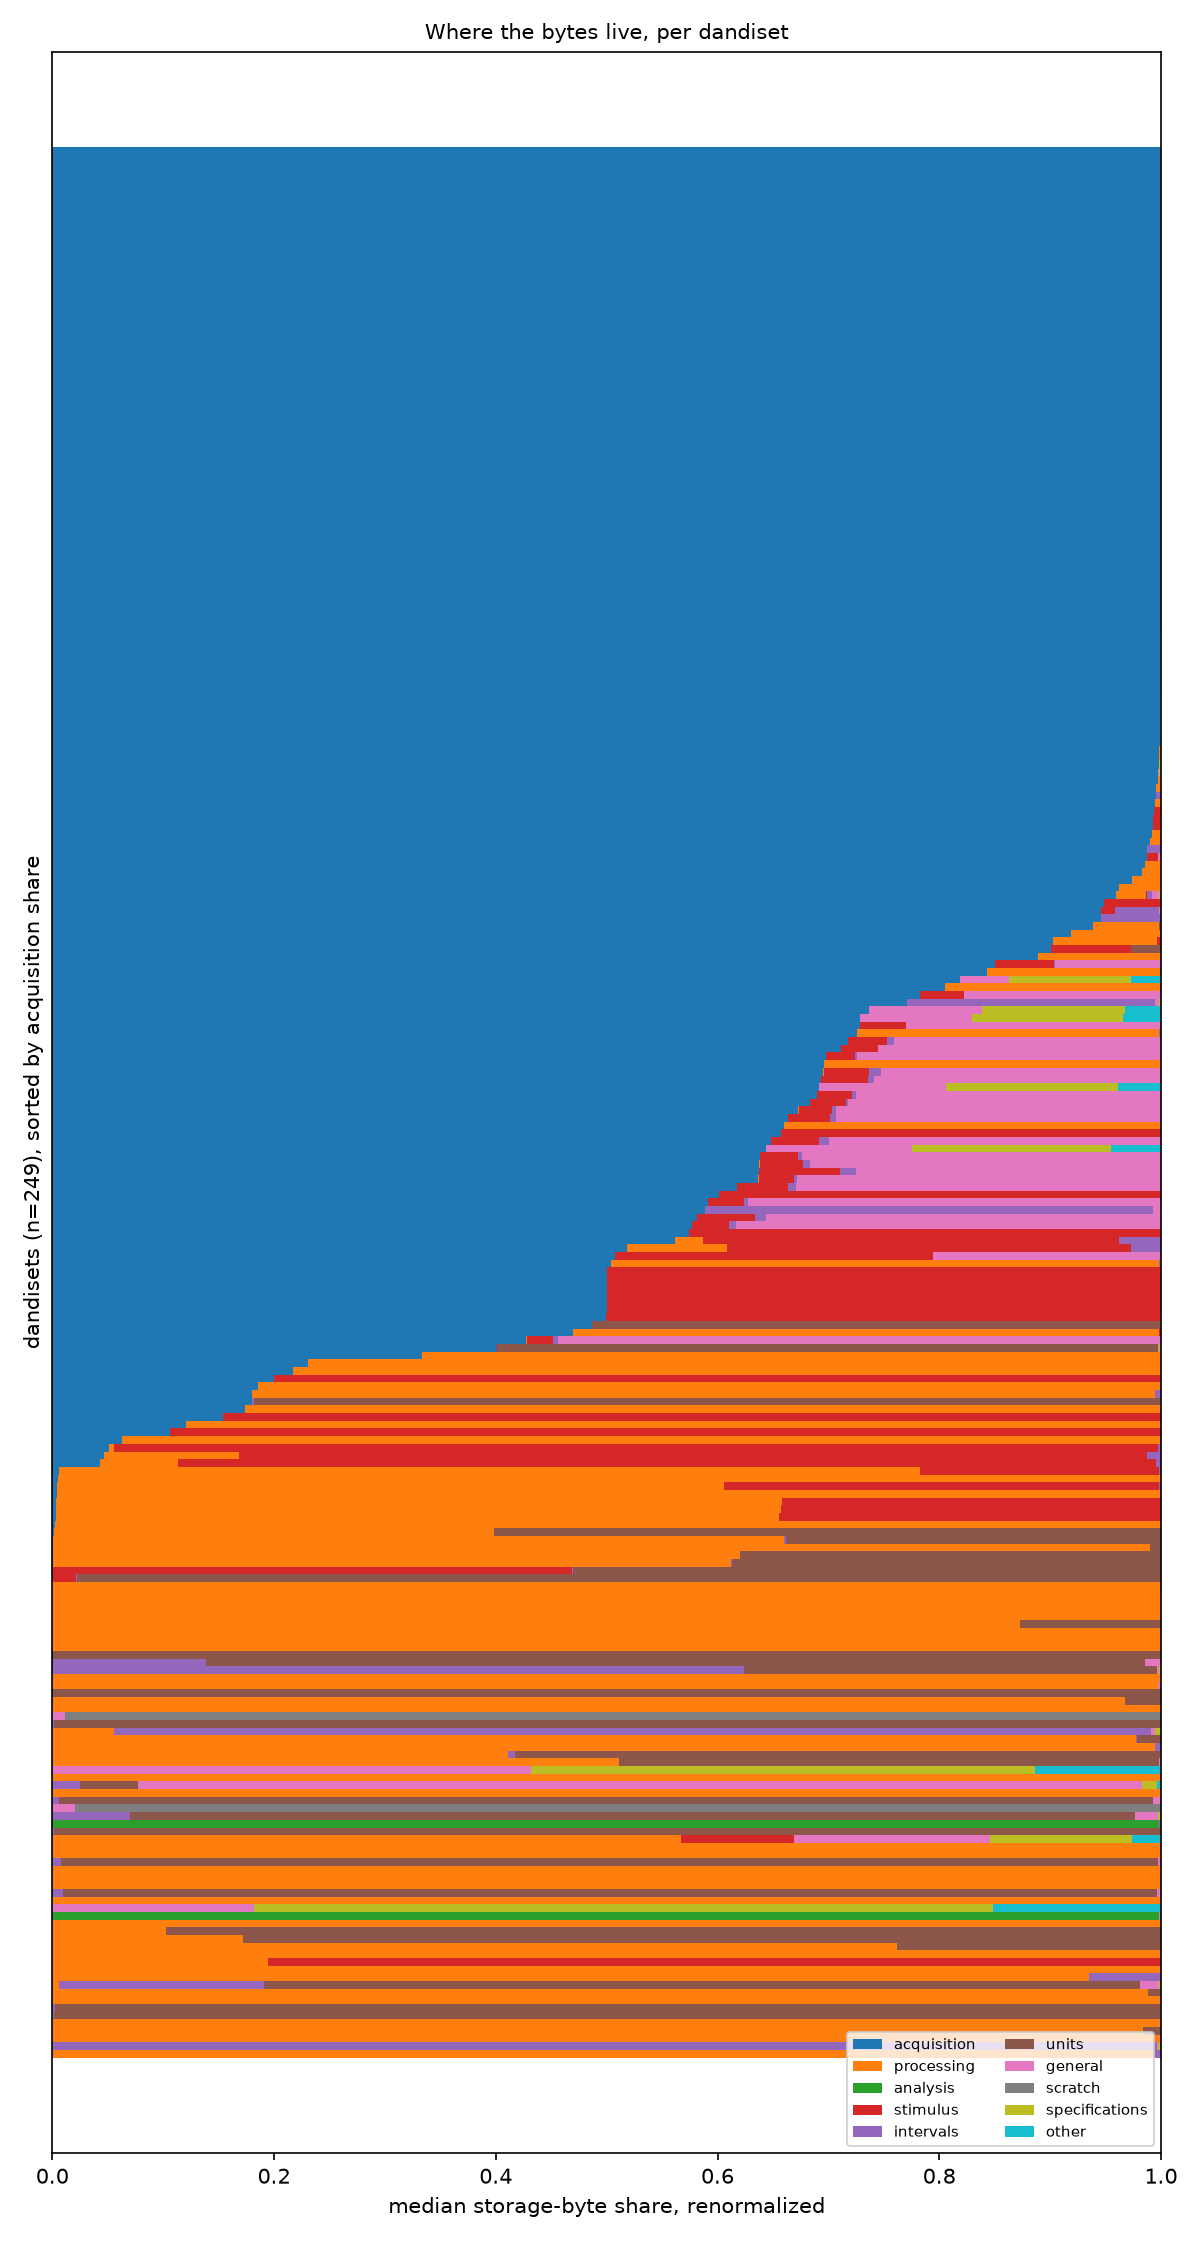
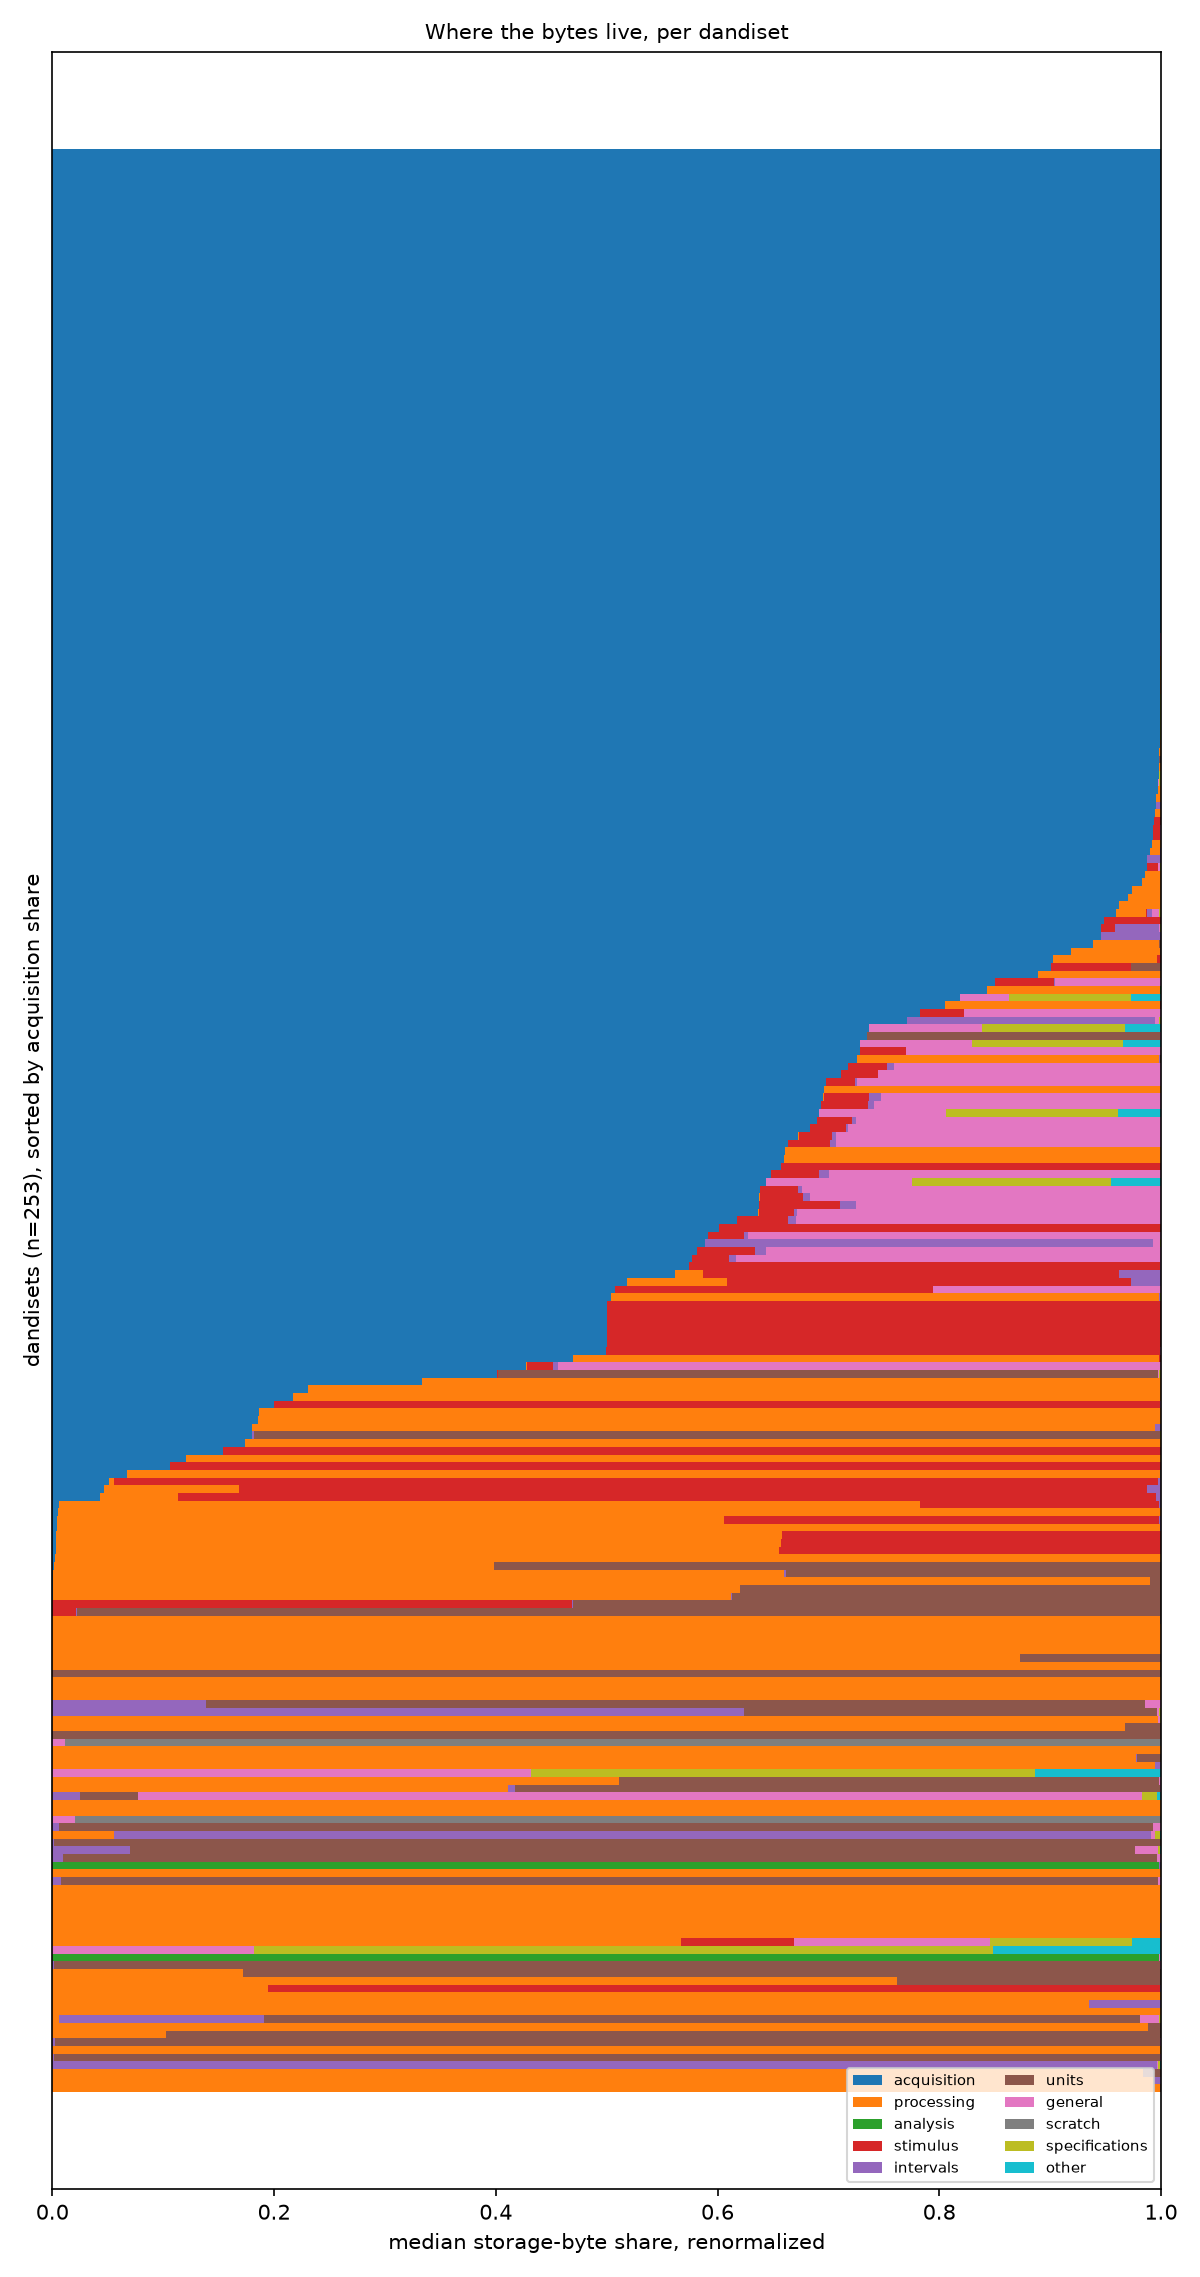
Added the final byte-weighted metrics, figures and findings
The retry recovered nine of the twelve largest files, bringing the walk to
1,221 of 1,224 sampled files across all 253 dandisets. Figures are regenerated
on that sample, and FINDINGS_byte_weighted.md reports the partial correlations,
the ICC comparison and whether D1 and evenness separate from count and size.

Claude-Session: https://claude.ai/code/session_015rd4wDp52P3Ryv3QqMJ4Z9

diff --git a/analysis/access_vs_structure/byte_weighted_structure.py b/analysis/access_vs_structure/byte_weighted_structure.py
@@ -538,7 +538,7 @@ def plot(args: argparse.Namespace) -> None:
         ax.axvline(0, color="0.7", lw=0.8)
         ax.set_xlim(-1, 1)
         ax.set_title(title, fontsize=9)
-    axes[2].legend(fontsize=7, loc="lower left")
+    axes[2].legend(fontsize=7, loc="upper left")
     axes[0].set_yticks(y)
     axes[0].set_yticklabels(validation["metric"])
     for ax in axes:

diff --git a/analysis/access_vs_structure/FINDINGS_byte_weighted.md b/analysis/access_vs_structure/FINDINGS_byte_weighted.md
@@ -1,0 +1,70 @@
+# Byte-weighted structure: findings
+
+Exploratory. Not yet folded into `WHITEPAPER.md`.
+
+## Sample
+
+The file was walked with `remfile` and `h5py` over the S3 blob URL. LINDI and the DANDI API were both unreachable from
+the environment that ran it, so neither was used. The sample is stratified, at most 10 files per dandiset, random with
+seed 0, drawn from the 4,493 files in `access_structure.csv`.
+
+- Sampled 1,224 files from 253 dandisets. Walked **1,221 files from all 253 dandisets**.
+- Three files failed. Each timed out after an hour of traversing a chunk index too large to read over HTTP:
+  `21702bde-fa75-4cb4-b36a-1cd6732fe50e` (dandiset 1371, 236 GB), `38e53e31-103c-4639-b611-4abc58675a29`
+  (552, 147 GB) and `42b9f9ad-a677-49f8-a887-21de353af178` (114, 49 GB). Nine other large files first timed out at
+  15 minutes and were recovered by a second pass that skipped the chunk count. The largest file walked holds 438 GB.
+  The sample therefore reaches the size tail, but its three largest unwalked files are missing.
+- 2,768 datasets across 125 files had zero allocated storage. They are excluded from `D0` and from the shares.
+
+Every statistic below is reported twice. "Files" means the per-file values, capped at 10 per dandiset. "Dandisets"
+means one median per dandiset (n = 253).
+
+## Figures
+
+**1. `D1` against `D0`.** The points do not hug the `D1 = D0` line. The median file has 68 nonzero datasets but an
+effective number of only 4.1, with a median evenness of 0.035. A third of files (32%) hold over 90% of their bytes in
+a single dataset. So `D1` is not object count restated, but it is still strongly ordered by it, as figures 2 and 6
+show.
+
+**2. `D1` and evenness against bytes.** Holding size fixed, `D1` stays tied to count, with partial Spearman
+`D1 ~ D0 | bytes` = +0.82 for both files and dandisets. Holding count fixed, larger files concentrate their bytes, with
+partial Spearman `D1 ~ bytes | D0` = −0.64 for files and −0.54 for dandisets. Evenness has essentially no relation to
+count (Spearman +0.06 for files, +0.02 for dandisets). It falls with size instead: Spearman −0.53 for files and −0.43
+for dandisets, and partial `E ~ bytes | D0` = −0.54 and −0.43.
+
+**3. ECDF of evenness.** Most files and most dandisets sit below 0.1. The dandiset-median curve tracks the file curve,
+so the cap is not hiding a different picture.
+
+**4. Lorenz curves.** These are eight files at evenly spaced evenness quantiles. At the low end, a single dataset
+carries almost everything. Only the top quantiles approach the diagonal, and those are small files with few datasets.
+
+**5. Section composition.** Bytes live in acquisition for 149 of 253 dandisets (median share > 0.5) and in processing
+for 58. Stimulus, units and general take the bulk only in a minority. The CLR-PCA of section shares has its first two
+components at 39% and 21%, and they separate along the acquisition-versus-processing axis.
+
+**6. Validation panel.** Every metric is mostly a dandiset property, with between-dandiset ICC(1) of 0.81–0.90: log `D0`
+0.84, log bytes 0.90, log cophenetic 0.82, log `D1` 0.82, log `D2` 0.81, evenness 0.87. Log cophenetic is count again
+(Spearman with log `D0` 0.98). `D1` and `D2` are mostly count (0.71 and 0.67 for files, 0.75 and 0.71 for dandisets)
+with a negative size component (−0.33 for files, −0.25 for dandisets). Evenness is uncorrelated with count (0.06 for
+files, 0.02 for dandisets) and moderately anti-correlated with size (−0.53 for files, −0.43 for dandisets).
+
+**7. Access, at dandiset level only (n = 253, medians).** Log bytes remains the strongest correlate of download fraction
+(Spearman −0.73), followed by log `D0` (−0.51). `D1` (−0.21) and evenness (+0.25) are weak. With log `D0` and log
+bytes both controlled, `D1` keeps a partial Spearman of −0.22 with download fraction. That is a small residual signal,
+not a new predictor. No per-file access model was fitted.
+
+## Plain statement
+
+Neither metric separates cleanly. `D1` is largely object count, modulated by size: larger files concentrate their bytes
+in fewer datasets. Evenness is the one quantity that is independent of count. But it is not independent of size,
+because roughly a quarter of its rank variance is shared with log bytes. So it does not escape the
+"structure vs. size" collapse either. It trades the count axis for a partial size axis. What the byte-weighted view
+does add is where the bytes sit. Section composition, acquisition-dominated versus processing-dominated, is a real
+and dandiset-level distinction that the unlabeled-tree metrics cannot express. If anything here earns a place in the
+whitepaper, it is that, and not `D1` or evenness as a complexity score.
+
+## Follow-up
+
+- Zarr assets were not walked. This pass is HDF5 only.
+- Each failed file needs either a longer timeout or a chunk-index-free size estimate.
+- The full 4,493 files would let the dandiset-level numbers use more than 10 files per dandiset.
